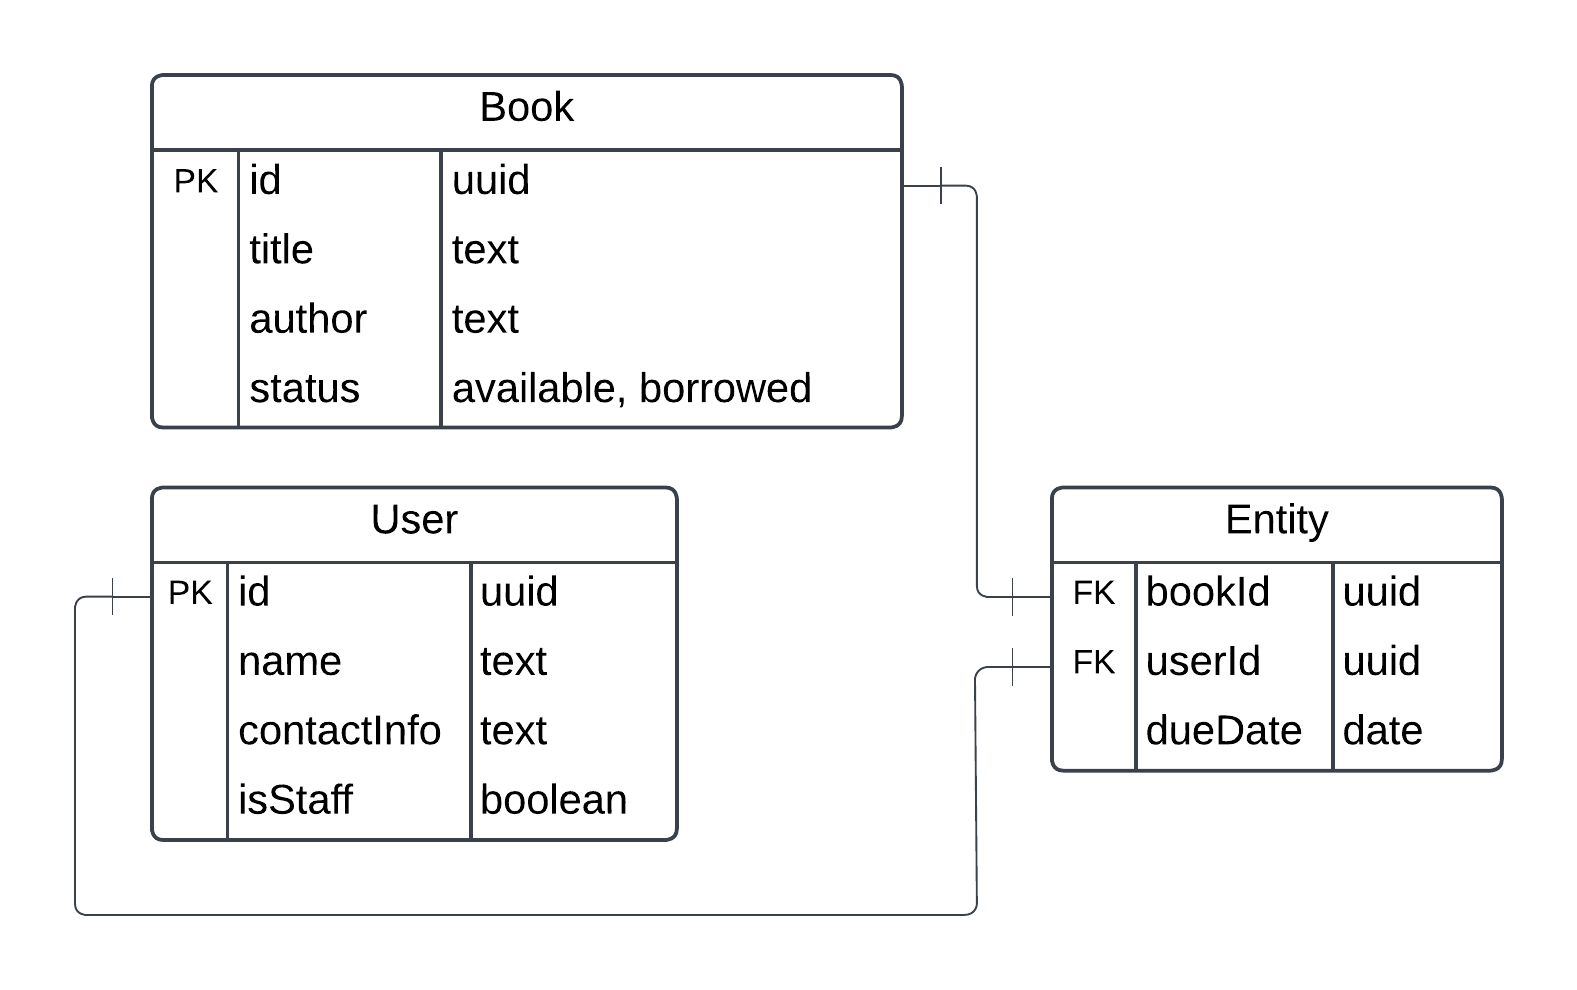
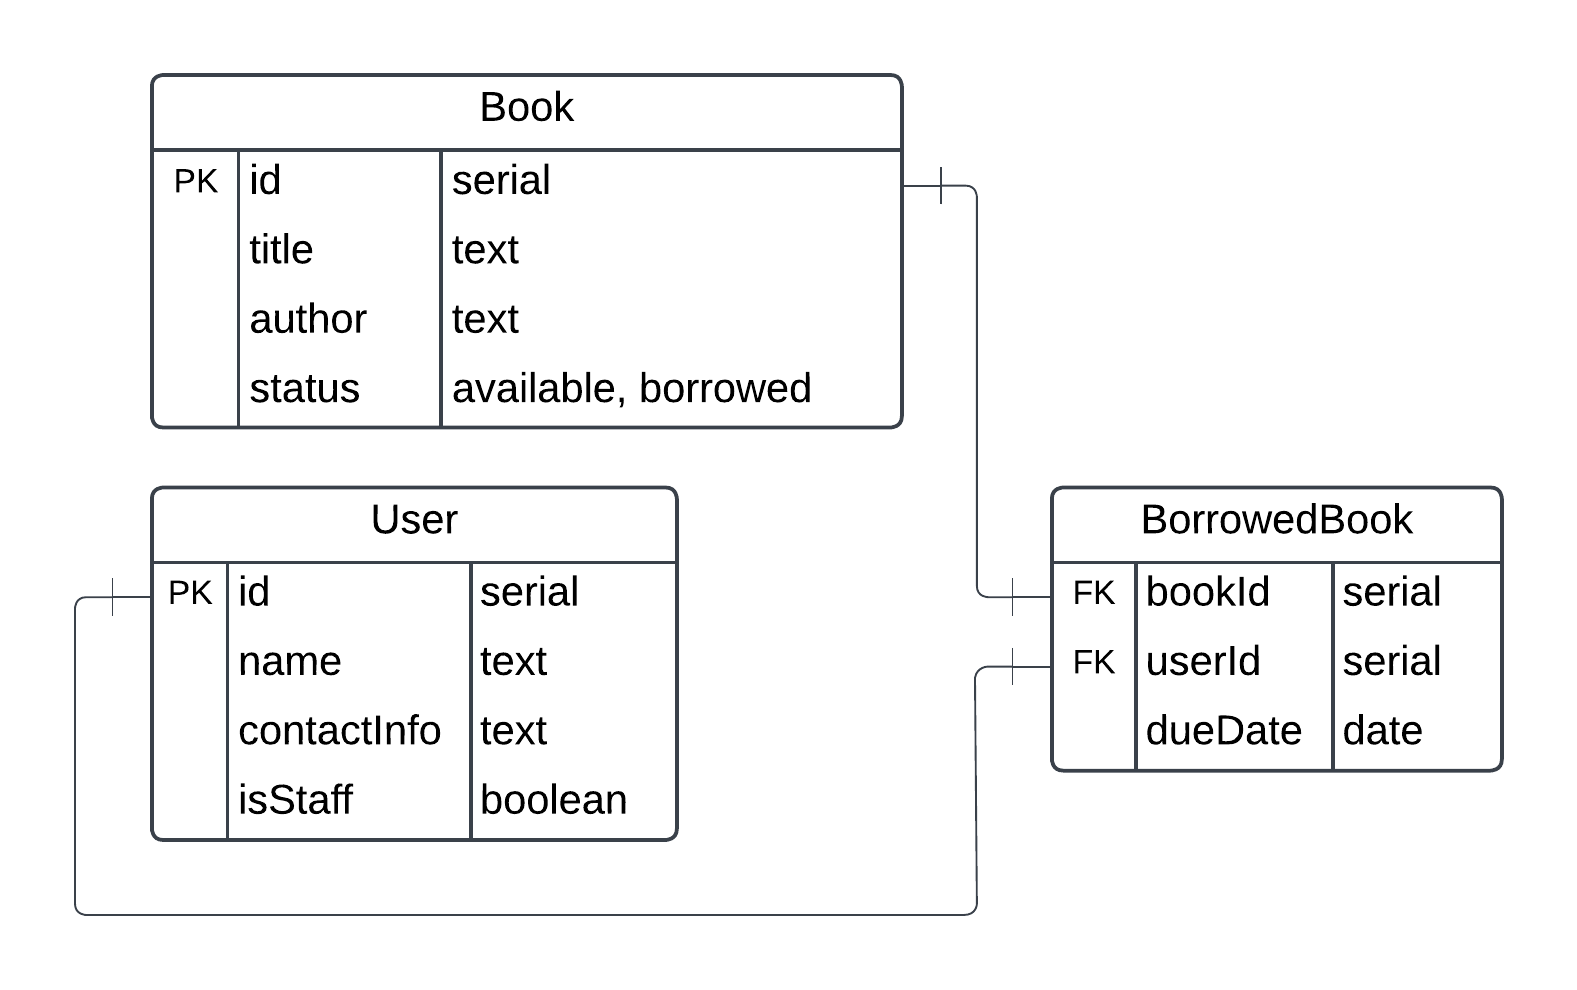
Setup database connections + local DB

diff --git a/src/db/schema.ts b/src/db/schema.ts
@@ -1,19 +1,19 @@
-import { pgTable, uuid, text, pgEnum, boolean } from 'drizzle-orm/pg-core';
+import { pgTable, serial, text, pgEnum, boolean } from 'drizzle-orm/pg-core';
 
 const statusEnum = pgEnum('status', ['available', 'borrowed']);
 
 export const bookTable = pgTable('book', {
-  id: uuid('id').primaryKey().default('gen_random_uuid()'),
+  id: serial('id').primaryKey(),
   title: text('title').notNull(),
   author: text('author').notNull(),
-  status: statusEnum().default('available'),
+  status: statusEnum().notNull().default('available'),
 });
 
 export type BookInsert = typeof bookTable.$inferInsert;
 export type BookSelect = typeof bookTable.$inferSelect;
 
 export const userTable = pgTable('user', {
-  id: uuid('id').primaryKey().default('gen_random_uuid()'),
+  id: serial('id').primaryKey(),
   name: text('name').notNull(),
   contactInfo: text('contactInfo').notNull().unique(),
   isStaff: boolean('isStaff').default(false),
@@ -23,10 +23,10 @@ export type UserInsert = typeof userTable.$inferInsert;
 export type UserSelect = typeof userTable.$inferSelect;
 
 export const borrowedBookTable = pgTable('borrowedBook', {
-  bookId: uuid('bookId')
+  bookId: serial('bookId')
     .notNull()
     .references(() => bookTable.id),
-  userId: uuid('userId')
+  userId: serial('userId')
     .notNull()
     .references(() => userTable.id),
   dueDate: text('dueDate').notNull(),
